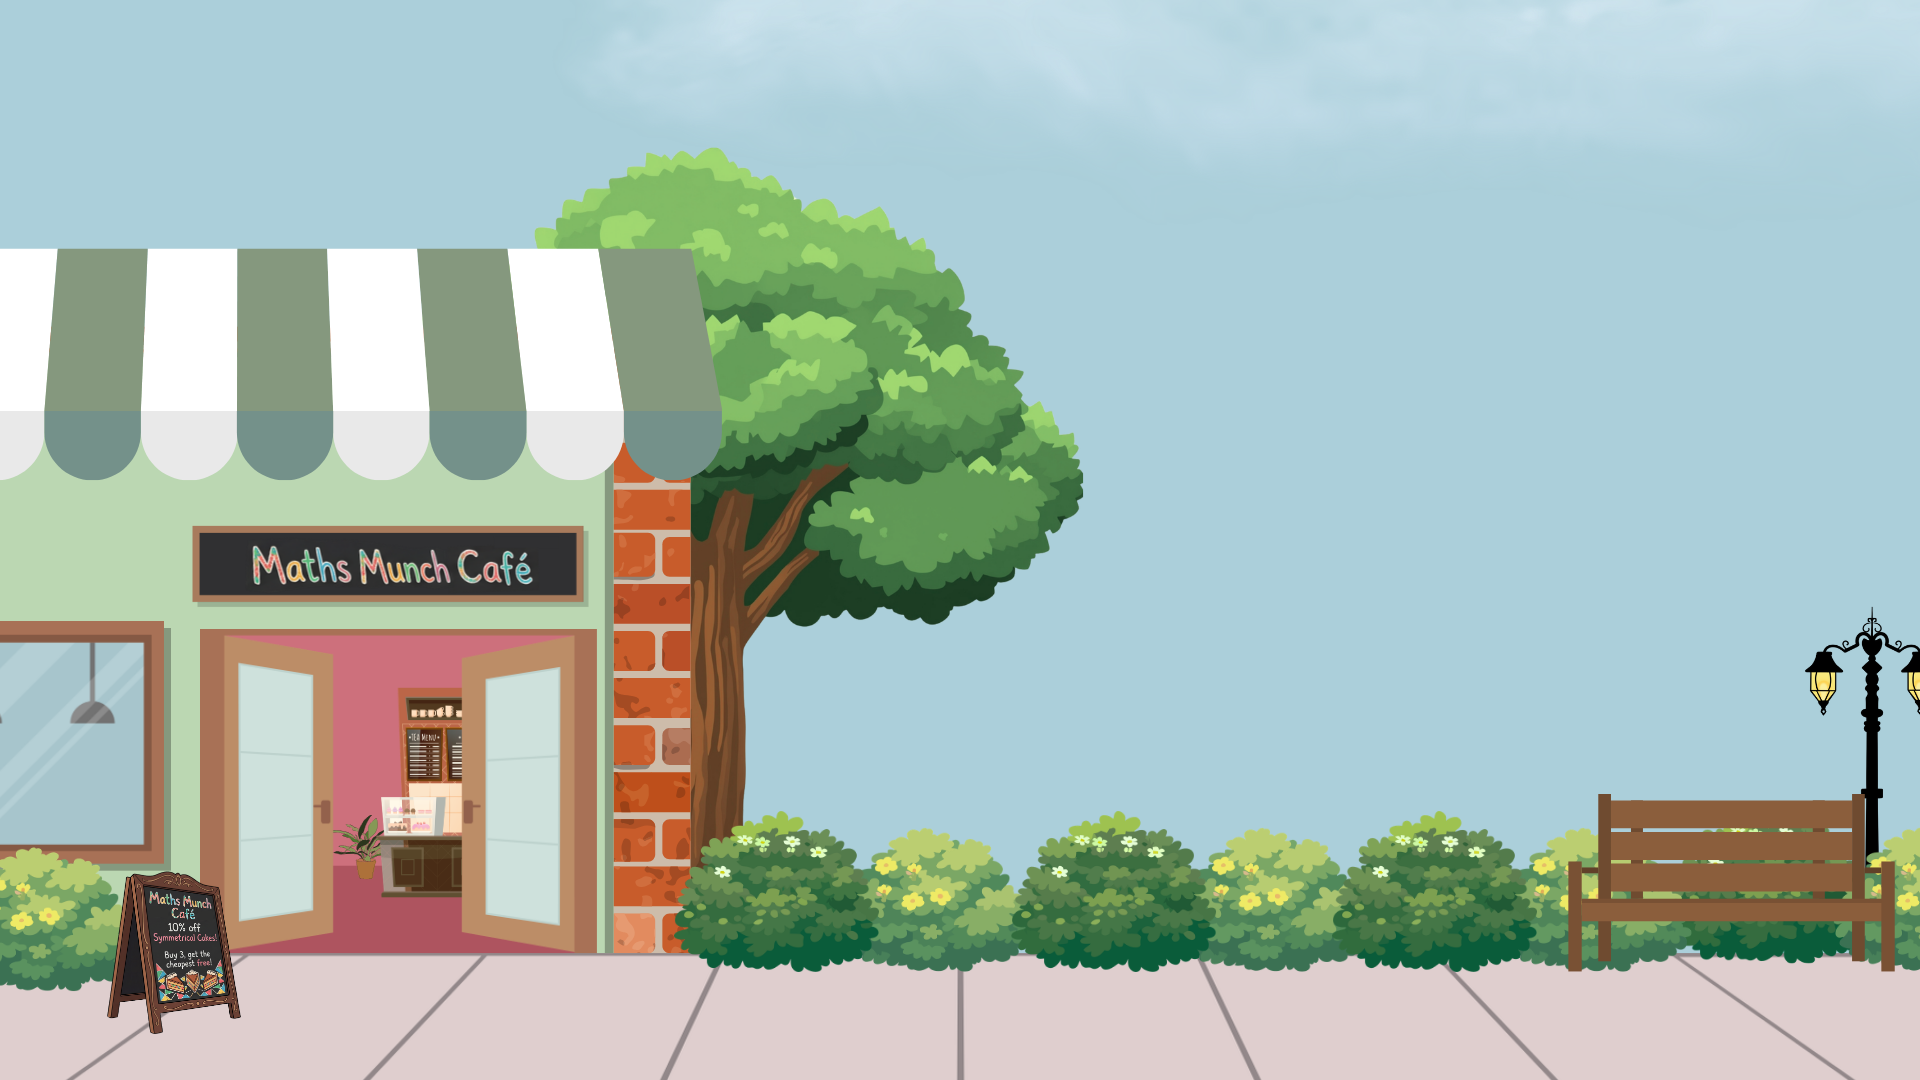
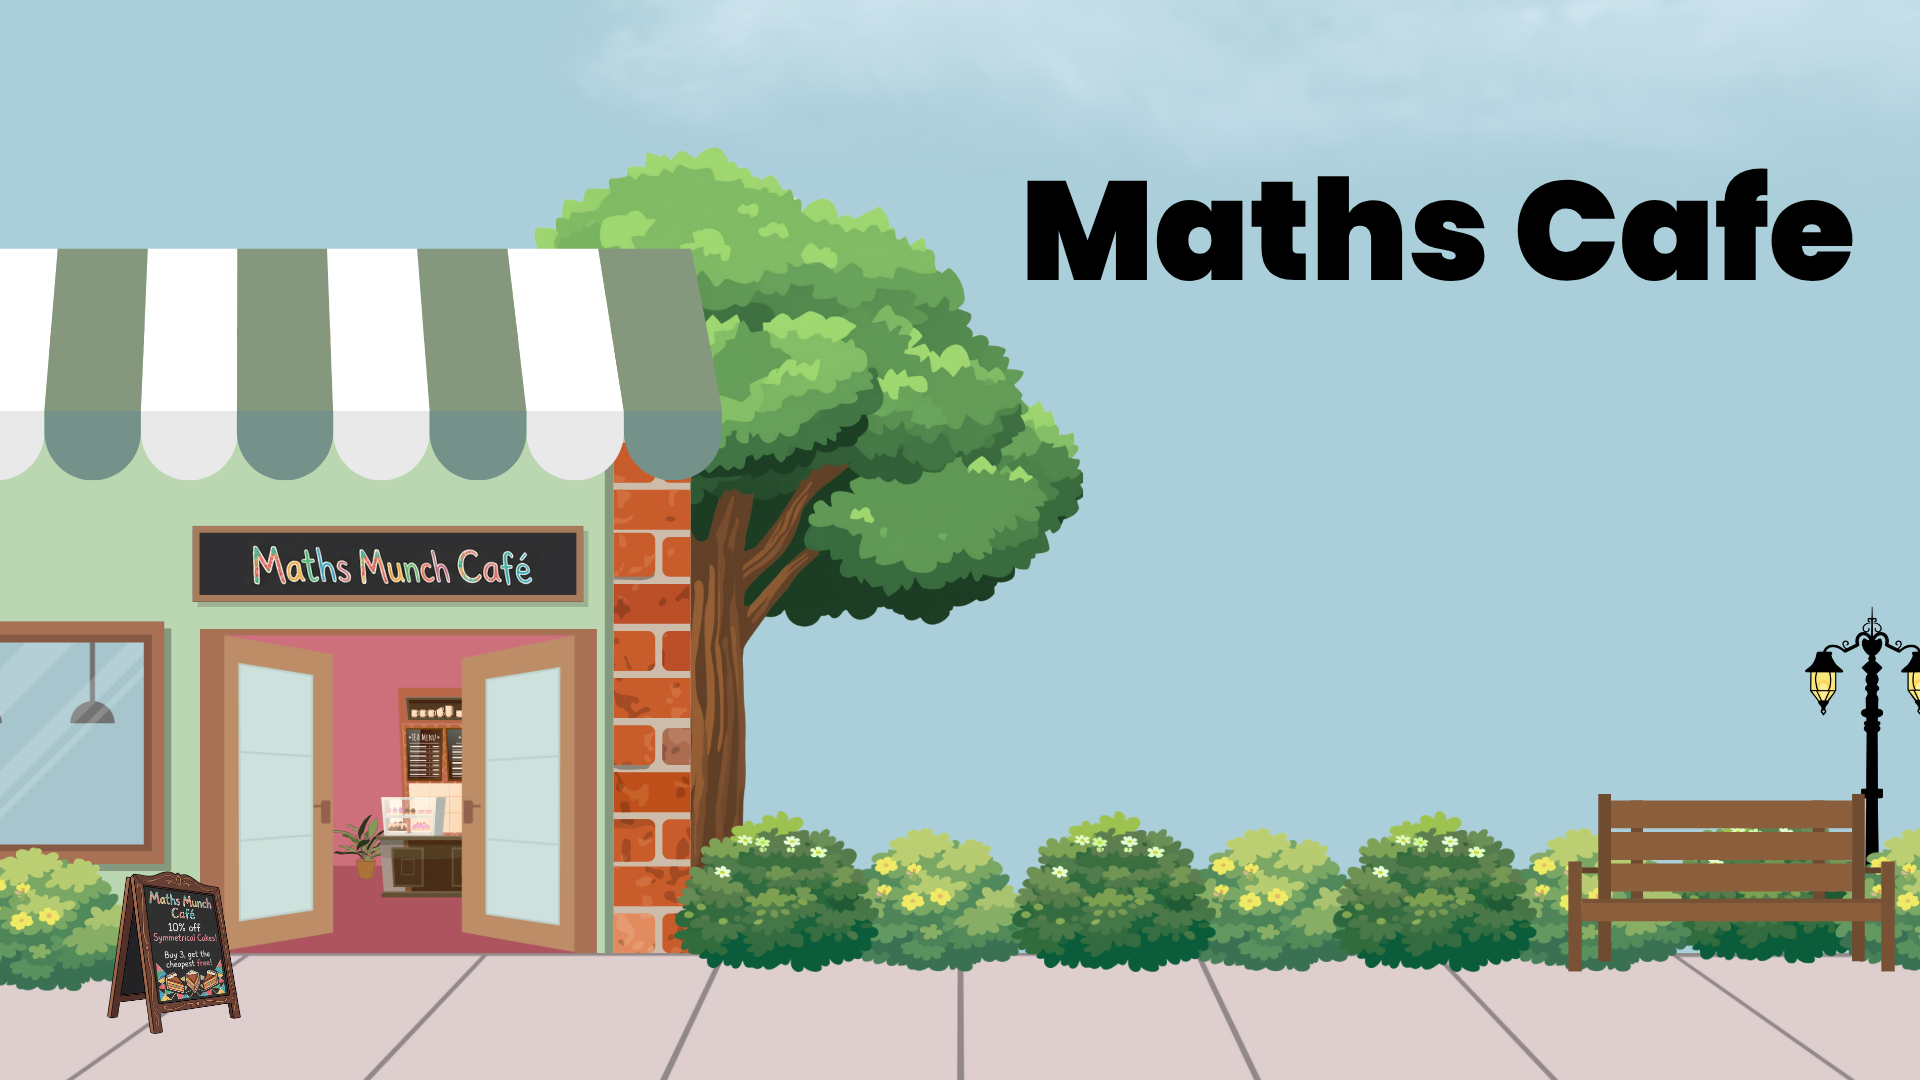
Challenge mode uses decimals

Changed region(s): [[0.5312, 0.1528, 0.9688, 0.275], [0.125, 0.5194, 0.2812, 0.55]]

diff --git a/src/handlers/food_handler.js b/src/handlers/food_handler.js
@@ -1,7 +1,9 @@
 import { GAME_SIZE, getRandomInt, shuffle, pointIntersects } from '../globals.js'
 import { Command } from '../enums/commands.js'
+import { Difficulty } from '../enums/difficulty.js'
 import { FoodItem } from '../gameplay/elements/food_item.js'
-import { Pricetag } from '../gameplay/elements/pricetag.js';
+import { Pricetag } from '../gameplay/elements/pricetag.js'
+import { Game } from '../game.js'
 
 const MAX_FOOD = 8;
 
@@ -78,8 +80,27 @@ export class FoodHandler{
             const VALUE = this.prices[i];
             const POS = this.shelfPoints[i].pos;
             this.foodItems[i].setUnique(TEXTURE, NAME, TYPE, SIZE);
-            this.foodItems[i].setDynamic(VALUE, POS);
-            this.priceTags.push(new Pricetag({x: POS.x + 25, y: POS.y + 150}, VALUE));
+            // this.foodItems[i].setDynamic(VALUE, POS);
+            // this.priceTags.push(new Pricetag({x: POS.x + 25, y: POS.y + 150}, VALUE));
+
+
+            if(Game.gameplay.difficulty === Difficulty.REGULAR){
+                this.foodItems[i].setDynamic(VALUE, POS);
+                this.priceTags[i] = new Pricetag({x:POS.x + 25, y:POS.y + 150}, VALUE);
+            } else if (Game.gameplay.difficulty === Difficulty.CHALLENGE){
+                
+                let inc = 0;
+                const n = getRandomInt(1,4);
+
+                switch (n){
+                    case 1: inc = 0.0;  break;
+                    case 2: inc = 0.25; break;
+                    case 3: inc = 0.50; break;
+                    case 4: inc = 0.75; break;
+                }
+                this.foodItems[i].setDynamic(VALUE + inc, POS);
+                this.priceTags[i] = new Pricetag({x:POS.x + 25, y:POS.y + 150}, VALUE + inc);
+            }
         }
         this.randomiseDynamic();
     }
@@ -149,8 +170,25 @@ export class FoodHandler{
         for(let i = 0; i < this.shelfPoints.length; i++){
             const VALUE = this.prices[i];
             const POS = this.shelfPoints[i].pos;
-            this.foodItems[i].setDynamic(VALUE, POS);
-            this.priceTags[i] = new Pricetag({x:POS.x + 25, y:POS.y + 150}, VALUE);
+
+            if(Game.gameplay.difficulty === Difficulty.REGULAR){
+                this.foodItems[i].setDynamic(VALUE, POS);
+                this.priceTags[i] = new Pricetag({x:POS.x + 25, y:POS.y + 150}, VALUE);
+            } else if (Game.gameplay.difficulty === Difficulty.CHALLENGE){
+                
+                let inc = 0;
+                const n = getRandomInt(1,4);
+
+                switch (n){
+                    case 1: inc = 0.0;  break;
+                    case 2: inc = 0.25; break;
+                    case 3: inc = 0.50; break;
+                    case 4: inc = 0.75; break;
+                }
+                this.foodItems[i].setDynamic(VALUE + inc, POS);
+                this.priceTags[i] = new Pricetag({x:POS.x + 25, y:POS.y + 150}, VALUE + inc);
+            }
+
             this.foodItems[i].changeScale(this.scale);
             this.priceTags[i].changeScale(this.scale);
         }

diff --git a/src/game.js b/src/game.js
@@ -116,12 +116,10 @@ function update(deltaTime){
         case GameState.INITIALIZING:
             console.log("=== Starting to Initialize Gameplay ===");
             Game.gameplay.init(Game.assetHandler);
-            // Game.inputHandler.initInputs();
-            // Game.mainMenu.init(Game.assetHandler);
+            Game.gameplay.handleLevelSwap(Game.gameplay.level);
             resizeCanvas();
             console.log("=== Finished Initializing Gameplay ===");
             Game.gamestate = GameState.GAMEPLAY;
-            // Game.gameplay.initScore(Game.initial_score);
             break;
         case GameState.GAMEPLAY:
                 Game.activeCommand = Game.inputHandler.getActiveCommand();

diff --git a/src/gameplay/elements/pricetag.js b/src/gameplay/elements/pricetag.js
@@ -11,10 +11,16 @@ export class Pricetag{
         this.color = {infill: '#fde8d7', outline: 'black'};
         this.initial = {size: {x:100, y: 50}, pos: {...pos}, center: {...this.center}, radius: 5, lineWidth: 2};
 
-        this.fontSize = 35;
-        this.initialFontSize = 35;
+        this.fontSize = 30;
+        this.initialFontSize = 30;
 
-        this.price = price;
+        if(price % 1 === 0.5){
+            this.price = price + "0";
+        } else if (price % 1 === 0){
+            this.price = price + ".00";
+        } else {
+            this.price = price;
+        }
     }
 
     changeScale(scale){
